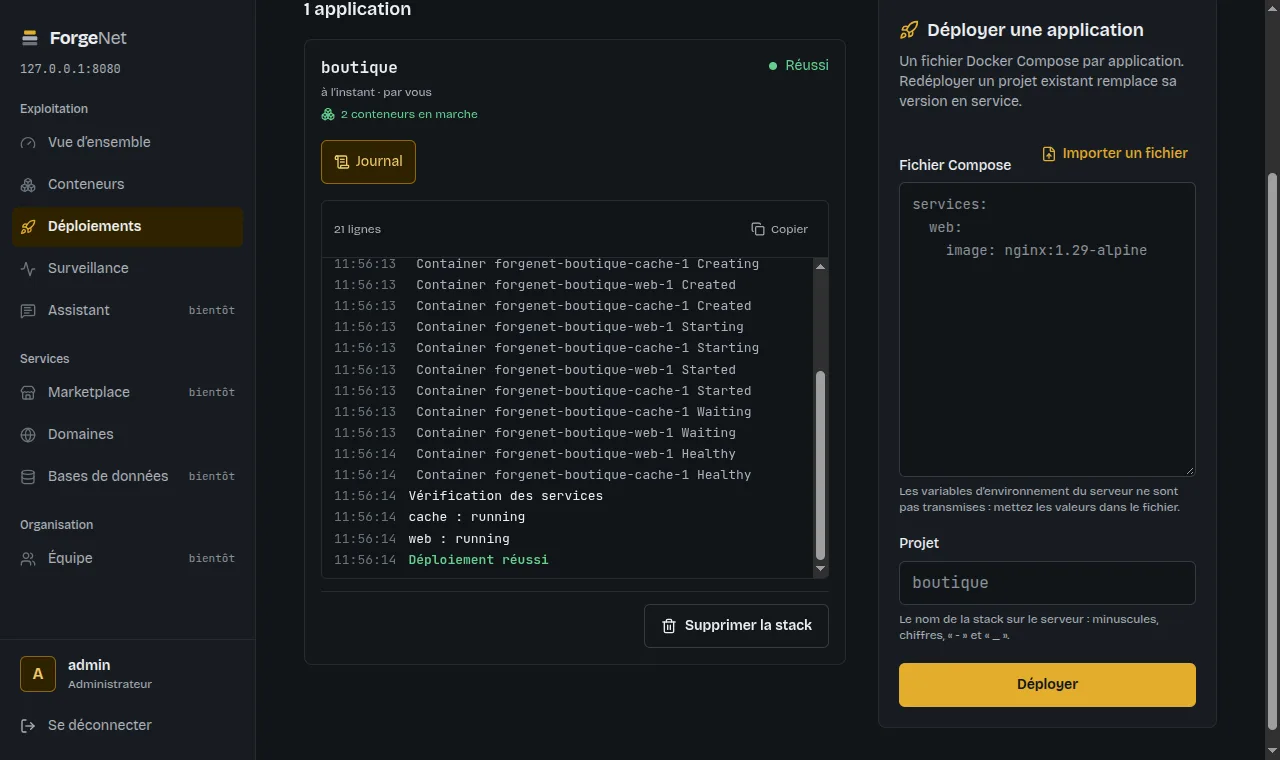
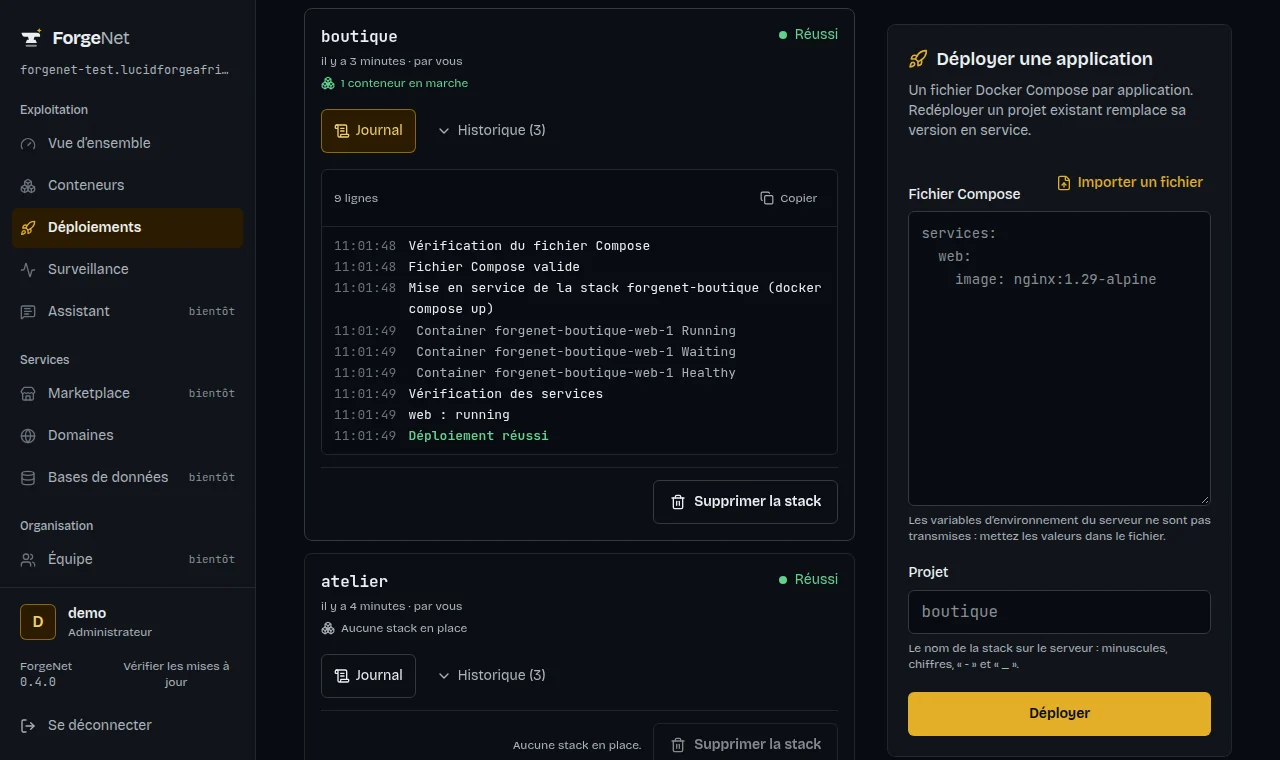
docs: démos et captures refaites avec l'enclume
Tournées sur le VPS de test passé de 0.3.0 à 0.4.0 depuis le dashboard,
avec les mêmes scénarios et dimensions qu'avant : demo.gif (connexion,
stack de deux services suivie en direct, Surveillance), domaine-https.gif
(redéploiement de la boutique, ajout du domaine, page en HTTPS), captures
Déploiements et Surveillance. La hauteur de demo.gif dans la vitrine
passe à 511, sa vraie valeur.

Closes #78

diff --git a/site/index.html b/site/index.html
@@ -311,7 +311,7 @@ footer a { text-decoration: none; } footer a:hover { color: var(--iron-100); }
     <div class="wrap">
       <h2 id="t-demo" class="sec-title">Vingt secondes, sur un vrai serveur.</h2>
       <figure>
-        <img src="img/demo.gif" width="860" height="510" alt="Démonstration : connexion, déploiement d'une stack Compose suivi en direct, puis l'écran Surveillance" loading="lazy">
+        <img src="img/demo.gif" width="860" height="511" alt="Démonstration : connexion, déploiement d'une stack Compose suivi en direct, puis l'écran Surveillance" loading="lazy">
       </figure>
       <p class="demo-cap muted" style="margin-top:16px">Connexion, déploiement d'une stack de deux services, puis leurs mesures en direct, sur un VPS de test à Madrid. Rien n'est simulé.</p>
       <div class="demo-domaine">
